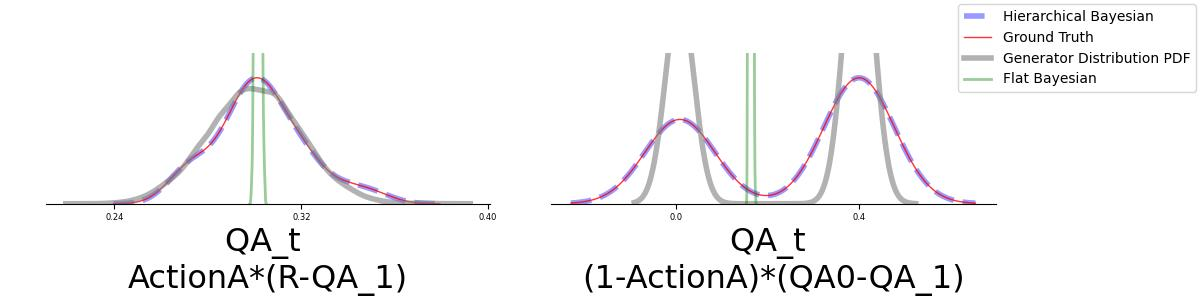
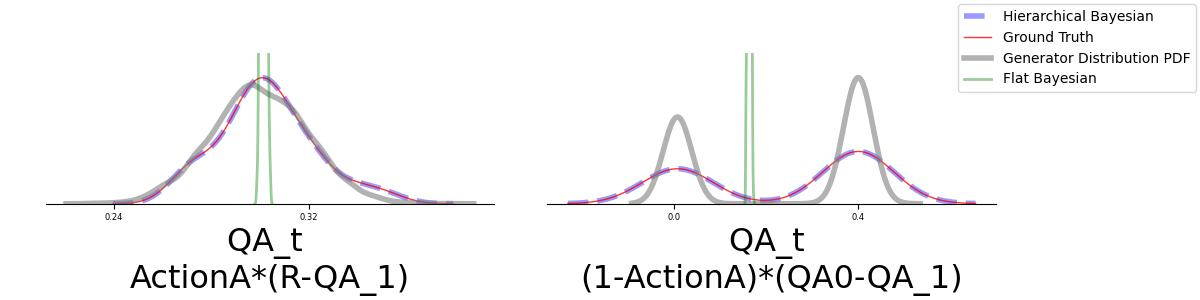
custom plot update

diff --git a/src/custom_plot.py b/src/custom_plot.py
@@ -170,13 +170,13 @@ def Custom_plot(generate_pdf, ground_truth = True, HB_Est = True, FlatB_Est = Tr
                 print(pdf_arr.shape)
                 sns.kdeplot(pdf_arr[index[0], index[1],:], ax=axi, fill=pdf_fill, color=pdf_color, alpha=.6,
                             warn_singular=False, linewidth=4,label="Generator Distribution PDF")
-                # data = pdf_arr[index[0], index[1],:]
-                # kernel = gaussian_kde(data)
-                # x_values = np.linspace(min(data), max(data), 100)
-                # y_values = kernel(x_values)
-                # kernel = gaussian_kde(data)
-                # peak_y = np.max(y_values)
-                # y_lim = max(y_lim, peak_y)
+                data = pdf_arr[index[0], index[1],:]
+                kernel = gaussian_kde(data)
+                x_values = np.linspace(min(data), max(data), 100)
+                y_values = kernel(x_values)
+                kernel = gaussian_kde(data)
+                peak_y = np.max(y_values)
+                y_lim = max(y_lim, peak_y)
 
         except:
             if HB_Est:
